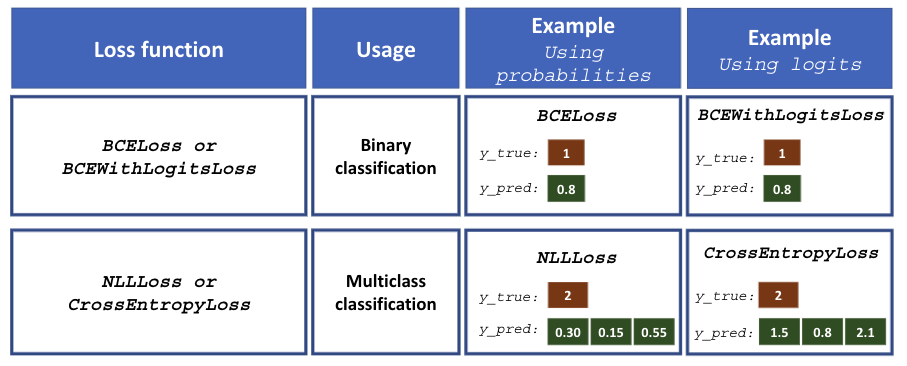
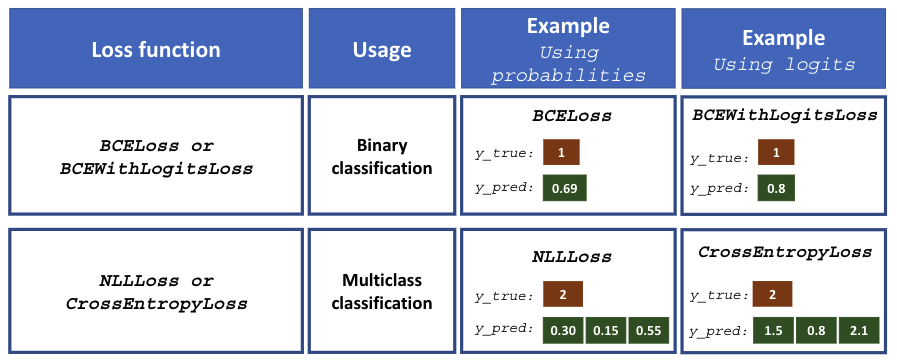
Update figure 14_11 with the right logit value (#33)
* Update figure 14_11 with the right logit value

* update figure in notebook and add errata note

diff --git a/ERRATA/README.md b/ERRATA/README.md
@@ -111,6 +111,14 @@ The first line misses the `/batch_size`.
 
 
 
+### Chapter 14
+
+**Page 472**
+
+In the figure, the `y_pred` value for the `BCELoss` is 0.8, but it should be 0.69, because of sigmoid(0.8) = 0.69. You can find an updated figure [here](../ch14/figures/14_11.png).
+
+
+
 ### Chapter 15
 
 **Page 508**
